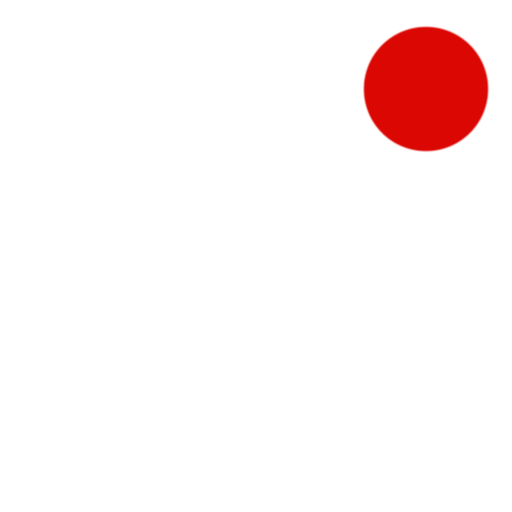
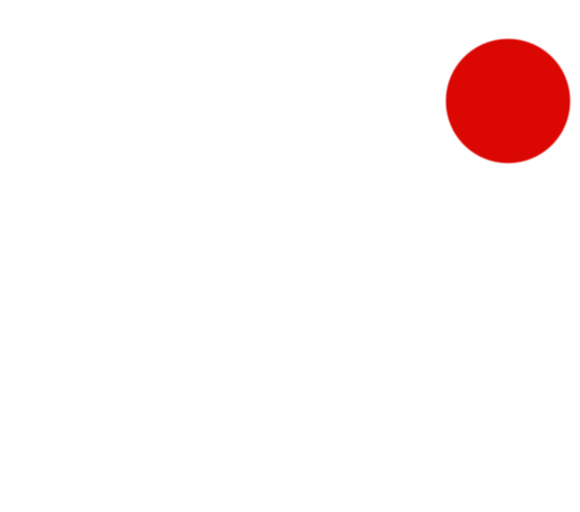
link a carrello in home

Changed region(s): [[0.6875, 0.0312, 1.0, 0.3438]]

diff --git a/Progetto/Php/template/home.php b/Progetto/Php/template/home.php
@@ -33,22 +33,26 @@
               <div class="col-1 text-end">
                 <button class="btn btn-default" type="button">
                   <a href="./archivio-carrello.php">
-                <img src="../Immagini/cart.png" alt="" style="height:30px"/>
+                  <?php if($templateParams["elemCarrello"][0]["numquadri"]!=0):?>
+                    <img src="../Immagini/cart2.png" alt="" style="height:30px"/>
+                  <?php else:?>
+                      <img src="../Immagini/cart.png" alt="" style="height:30px"/>
+                  <?php endif?>
+
                 </a>
               </div>
 
                 <div class="col-1 text-end" style="padding-right:30px">
                 <button class="btn btn-default" type="button">
-                <?php if($templateParams["notifiche"][0]["num"]!=0):?>
-                  <a href="./archivio-notifiche.php">
-                <img src="../Immagini/bell2.png" alt="" style="height:30px"/>
-                </a>
-                <?php else:?>
-                  <a href="./archivio-notifiche.php">
+                <a href="./archivio-notifiche.php">
 
+                <?php if($templateParams["notifiche"][0]["num"]!=0):?>
+                <img src="../Immagini/bell2.png" alt="" style="height:30px"/>
+                <?php else:?>
                 <img src="../Immagini/bell.png" alt="" style="height:30px"/>
-                </a>
                 <?php endif?>
+                </a>
+
                 </button>
             </div>
             <div class="col-1 text-start">

diff --git a/Progetto/Php/home2.php b/Progetto/Php/home2.php
@@ -7,9 +7,10 @@ $templateParams["4Quadri"] = $dbh->getRandomQuadri(4);
 $templateParams["3Artisti"] = $dbh->getRandomArtisti(3);
 $templateParams["3Categorie"] = $dbh->getRandomCategorie(3);
 
-if(isset($_SESSION['email']))
+if(isset($_SESSION['email'])){
     $templateParams["notifiche"] = $dbh->countNotifiche($_SESSION['email']);
-
+    $templateParams["elemCarrello"]= $dbh->getNumberOfPortrait($_SESSION['email']);
+}
 //var_dump($templateParams);
 require 'template/home.php';
 ?>
